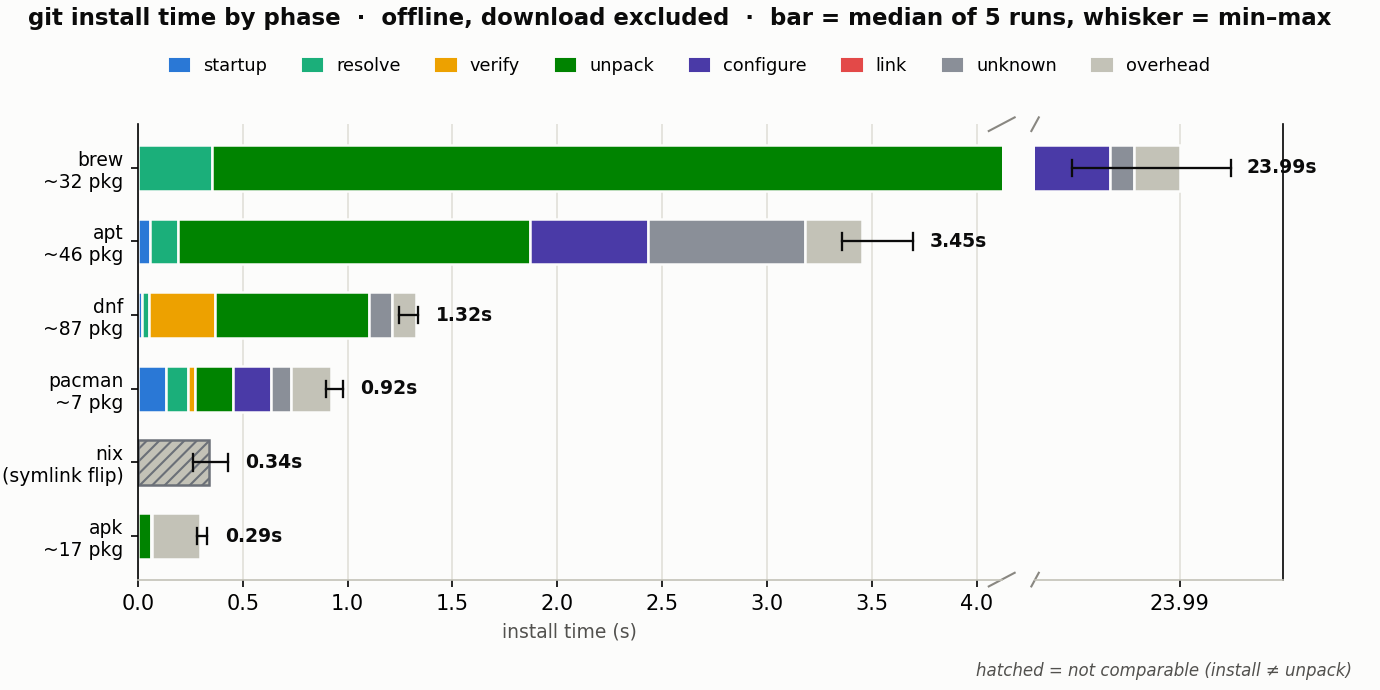
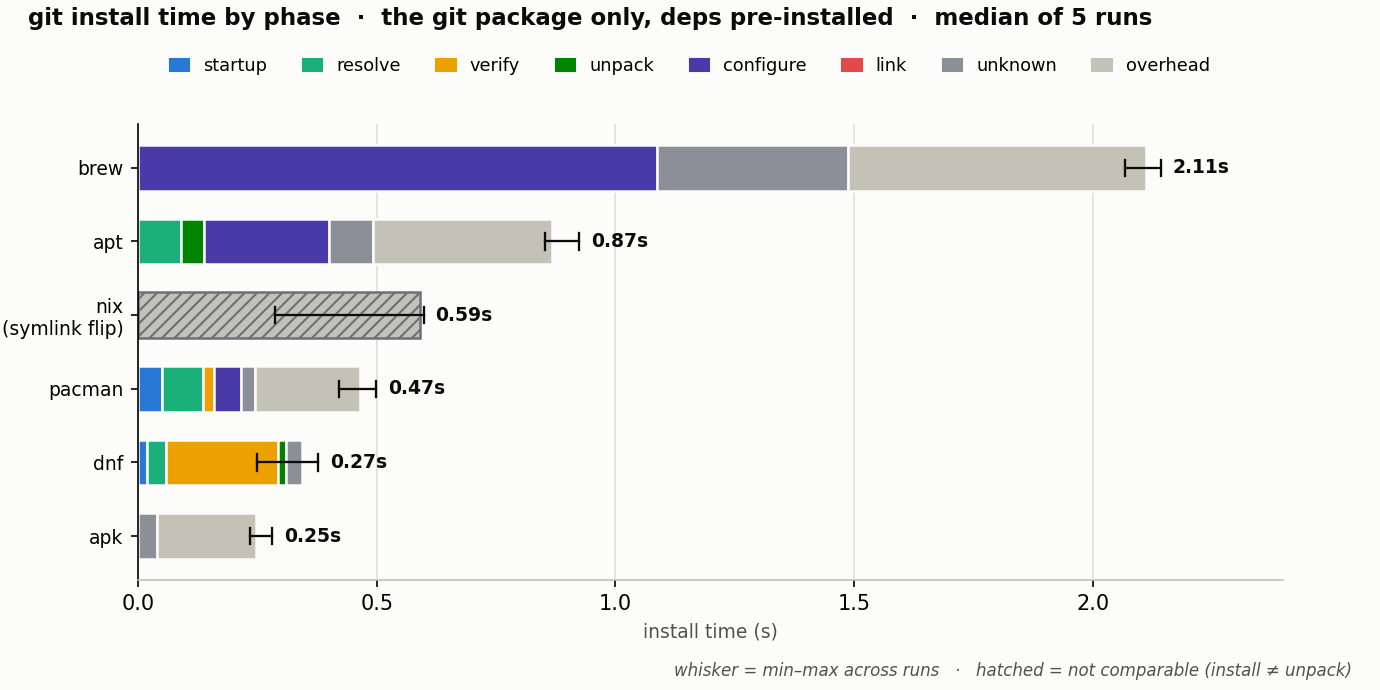
Measure the git package only: pre-install deps in setup (1 pkg per manager)
Each bench now installs git's dependencies during untimed setup and times
installing ONLY git itself, so every manager does the same unit of work (1
package) instead of a different-sized dependency tree.

- apt/pacman/apk: install git+deps in setup, remove just git (deps stay), time
  a fresh git install. dnf: Fedora splits git, so install git fully then
  reinstall git-core (the real payload). brew: pre-install `brew deps git`,
  time pouring just the git bottle.
- chart.py: drop per-bar pkg count (now uniformly 1); title says "git package
  only, deps pre-installed"; move whisker note to the footnote.
- README/synthesize: rewrite caveats for the git-only methodology (git-core on
  Fedora; drop the old workload-size and dnf --resolve caveats).

Result: fair per-package numbers — brew drops 24s->2.1s (its git bottle alone,
not 31 deps), apt 0.9s, pacman 0.5s, dnf/apk ~0.25s.

diff --git a/synthesize.js b/synthesize.js
@@ -30,7 +30,7 @@ const DL_INFO = {
   apt:    (d) => ({ size: cap(d, /Need to get ([\d.]+ ?[kMG]i?B)/i), deps: count(d, /\bGet:\d+/g) }),
   apk:    (d) => ({ size: null,                                       deps: count(d, /Downloading /gi) }),
   dnf:    (d, i) => ({ size: cap(i, /Total size of inbound packages is\s*([\d.]+ ?[kMG]i?B)/i) || cap(d, /Total (?:download )?size:?\s*([\d.]+ ?[kMG]i?B)/i),
-                      deps: count(i, /\]\s*Installing /gi) || count(d, /\(\d+\/\d+\):/g) }),
+                      deps: count(i, /\]\s*(?:Installing|Reinstalling) /gi) || count(d, /\(\d+\/\d+\):/g) }),
   pacman: (d) => ({ size: cap(d, /Total Download Size:\s*([\d.]+ ?[kMG]i?B)/i), deps: cap(d, /Packages? \((\d+)\)/) }),
   nix:    (d) => ({ size: cap(d, /([\d.]+ ?[kMG]i?B) download/i),     deps: cap(d, /(\d+) paths? will be fetched/i) }),
   brew:   (d, i) => ({ size: null,                                     deps: count(i, /🍺/g) }),
@@ -147,7 +147,7 @@ function body() {
     row('deps ~', (r) => r.deps ?? '—'),
     row('download size', (r) => r.size ?? '—'),
     '',
-    "_The `install: *` sub-phase split is from a single (last) rep, not the median run; `deps ~` is approximate and counted differently per manager (see README). **nix** caveat: its install is a profile symlink flip — unpack happens during the download phase (store realization), so its install time is **not** comparable to the others' unpack._",
+    "_Each manager installs only the `git` package with deps pre-installed, so `deps ~` = 1 (nix shows its store closure and is not counted). The `install: *` split is from a single (last) rep, not the median. **nix** caveat: its install is a profile symlink flip — unpack happens during the download phase (store realization), so its install time is **not** comparable to the others' unpack._",
     '', '### Top install sub-steps (by measured delta)', '',
     ...rows.map((r) => `- **${r.manager}** (${r.image}): ` + r.top.map((s) => `\`${s}\``).join(' · ')),
   ].join('\n');

diff --git a/chart.py b/chart.py
@@ -52,10 +52,9 @@ def bar_label(mgrs, totals, i):
 
 
 def ytick(m):
-    if m.get("manager") == "nix":
-        return "nix\n(symlink flip)"
-    d = m.get("deps")
-    return f"{m['manager']}\n~{d} pkg" if d and d != "0" else m["manager"]
+    # every manager now installs only the git package (deps pre-installed), so no
+    # per-bar package count; nix stays marked as the non-comparable symlink flip.
+    return "nix\n(symlink flip)" if m.get("manager") == "nix" else m["manager"]
 
 
 def main():
@@ -128,11 +127,12 @@ def main():
     fig.legend(handles, SEGMENTS, ncol=len(SEGMENTS), loc="upper center",
                bbox_to_anchor=(0.5, 0.94), frameon=False, fontsize=8.5, handlelength=1.1)
     reps = mgrs[0].get("reps", "?")
-    fig.suptitle(f"git install time by phase  ·  offline, download excluded  ·  bar = median of {reps} runs, whisker = min–max",
+    fig.suptitle(f"git install time by phase  ·  the git package only, deps pre-installed  ·  median of {reps} runs",
                  x=0.02, ha="left", y=0.99, fontsize=11, fontweight="bold", color="#0b0b0b")
+    note = "whisker = min–max across runs"
     if any(m.get("manager") == "nix" for m in mgrs):
-        fig.text(0.98, 0.015, "hatched = not comparable (install ≠ unpack)",
-                 ha="right", va="bottom", fontsize=8, style="italic", color="#52514e")
+        note += "   ·   hatched = not comparable (install ≠ unpack)"
+    fig.text(0.98, 0.015, note, ha="right", va="bottom", fontsize=8, style="italic", color="#52514e")
     fig.subplots_adjust(top=0.82, bottom=0.16, left=0.10, right=0.93)
     fig.savefig(os.path.join(ROOT, "chart.png"), facecolor="#fcfcfb")
     print("wrote chart.png")

diff --git a/README.md b/README.md
@@ -2,10 +2,15 @@
 
 How long does it take to **install `git`** with each major Linux package manager —
 and where does that time actually go? This benchmarks six managers (**apk, pacman,
-dnf, apt, nix, brew**) in throwaway Docker containers, splitting each run into two
+dnf, apt, nix, brew**) in throwaway Docker containers.
+
+To compare the **same unit of work**, each manager's **dependencies are pre-installed
+during untimed setup**, so the timed phases handle only the **`git` package itself** (1
+package) — not a different-sized dependency tree per manager. Each run splits into two
 timed phases:
 
-1. **Download** — fetch `git` + all dependencies into the local cache/store (online).
+1. **Download** — fetch the `git` package into the local cache (its deps are already
+   installed).
 2. **Install (offline)** — the warm-cache container is frozen to an image, then `git` is
    installed in a fresh **`--network none`** container, repeated **N times** (default 5).
    Timing is measured *inside* the container (so docker-exec startup is excluded) and
@@ -28,8 +33,8 @@ Auto-generated by `synthesize.js` on the last run — the chart and matrix below
 - **CPU:** 12th Gen Intel(R) Core(TM) i7-12700KF (20 logical cores)
 - **Memory:** 67.2 GB   **Arch:** x64   **Kernel:** 6.1.0-41-amd64
 - **OS:** Debian GNU/Linux 12 (bookworm)   **Docker:** 28.3.1
-- **Disk (/):** /dev/nvme0n1p2 ext4  937G  194G
-- **Generated:** 7/5/2026, 11:13:46 PM PDT
+- **Disk (/):** /dev/nvme0n1p2 ext4  937G  143G
+- **Generated:** 7/6/2026, 12:08:31 AM PDT
 
 ### Phase correlation matrix
 
@@ -37,30 +42,30 @@ _`install MEDIAN` is the median of 5 offline runs (`install min–max` shown); s
 
 | phase (s) | apk | pacman | dnf | apt | nix | brew |
 |---|---:|---:|---:|---:|---:|---:|
-| **download\*** | 1.65 | 3.82 | 7.38 | 3.81 | 7.11 | 86.83 |
-| install: startup | 0.00 | 0.13 | 0.02 | 0.06 | 0.00 | 0.00 |
-| install: resolve | 0.00 | 0.10 | 0.04 | 0.13 | 0.00 | 0.35 |
-| install: verify | 0.00 | 0.03 | 0.32 | 0.00 | 0.00 | 0.00 |
-| install: unpack | 0.06 | 0.18 | 0.73 | 1.68 | 0.00 | 20.04 |
-| install: configure | 0.00 | 0.18 | 0.00 | 0.57 | 0.00 | 2.95 |
+| **download\*** | 0.63 | 0.19 | 1.89 | 1.06 | 6.83 | 3.02 |
+| install: startup | 0.00 | 0.05 | 0.02 | 0.00 | 0.00 | 0.00 |
+| install: resolve | 0.00 | 0.09 | 0.04 | 0.09 | 0.00 | 0.00 |
+| install: verify | 0.00 | 0.02 | 0.23 | 0.00 | 0.00 | 0.00 |
+| install: unpack | 0.00 | 0.00 | 0.02 | 0.05 | 0.00 | 0.00 |
+| install: configure | 0.00 | 0.06 | 0.00 | 0.26 | 0.00 | 1.09 |
 | install: link | 0.00 | 0.00 | 0.00 | 0.00 | 0.00 | 0.00 |
-| install: unknown | 0.00 | 0.09 | 0.11 | 0.75 | 0.00 | 0.22 |
-| **install MEDIAN** | 0.29 | 0.92 | 1.32 | 3.45 | 0.34 | 23.99 |
-| install min–max | 0.28–0.33 | 0.90–0.98 | 1.25–1.34 | 3.36–3.70 | 0.26–0.43 | 22.98–24.46 |
+| install: unknown | 0.04 | 0.03 | 0.03 | 0.09 | 0.00 | 0.40 |
+| **install MEDIAN** | 0.25 | 0.47 | 0.27 | 0.87 | 0.59 | 2.11 |
+| install min–max | 0.23–0.28 | 0.42–0.50 | 0.25–0.38 | 0.85–0.92 | 0.29–0.60 | 2.07–2.14 |
 | git version | 2.54.0 | 2.55.0 | 2.55.0 | 2.39.5 | 2.54.0 | 2.51.2 |
-| deps ~ | 17 | 7 | 87 | 46 | 84 | 32 |
-| download size | — | 29.06 MiB | 37 MiB | 25.6 MB | 127.7 MiB | — |
+| deps ~ | 1 | 1 | 1 | 1 | 84 | 1 |
+| download size | — | 0.00 MiB | 5 MiB | 7264 kB | 127.7 MiB | — |
 
-_The `install: *` sub-phase split is from a single (last) rep, not the median run; `deps ~` is approximate and counted differently per manager (see README). **nix** caveat: its install is a profile symlink flip — unpack happens during the download phase (store realization), so its install time is **not** comparable to the others' unpack._
+_Each manager installs only the `git` package with deps pre-installed, so `deps ~` = 1 (nix shows its store closure and is not counted). The `install: *` split is from a single (last) rep, not the median. **nix** caveat: its install is a profile symlink flip — unpack happens during the download phase (store realization), so its install time is **not** comparable to the others' unpack._
 
 ### Top install sub-steps (by measured delta)
 
-- **apk** (alpine:latest): `0.036s (12/12) Installing git-init-template (2.54.0-r` · `0.007s ( 4/12) Installing libidn2 (2.3.8-r0)` · `0.004s ( 2/12) Installing c-ares (1.34.6-r0)`
-- **pacman** (archlinux:latest): `0.185s :: Running post-transaction hooks...` · `0.164s installing perl-error...` · `0.101s loading package files...`
-- **dnf** (fedora:latest): `0.315s [ 1/99] Verify package files            100% |` · `0.099s [99/99] Removing libsmartcols-0:2.41.4- 100% |` · `0.086s [14/99] Installing mpdecimal-0:4.0.1-3. 100% |`
-- **apt** (debian:12-slim): `0.312s 142 added, 0 removed; done.` · `0.214s 0 added, 0 removed; done.` · `0.207s Selecting previously unselected package perl.`
-- **nix** (nixos/nix): `0.000s warning: 'install' is a deprecated alias for '` · `0.000s warning: you don't have Internet access; disab`
-- **brew** (homebrew/brew): `5.323s 🍺  /home/linuxbrew/.linuxbrew/Cellar/util-lin` · `3.659s 🍺  /home/linuxbrew/.linuxbrew/Cellar/openssl@` · `1.652s 🍺  /home/linuxbrew/.linuxbrew/Cellar/krb5/1.2`
+- **apk** (alpine:latest): `0.037s Executing busybox-1.37.0-r31.trigger` · `0.003s OK: 20.4 MiB in 28 packages` · `0.000s (1/1) Installing git (2.54.0-r0)`
+- **pacman** (archlinux:latest): `0.083s Optional dependencies for git` · `0.055s :: Running post-transaction hooks...` · `0.032s (2/3) Reloading system manager configuration..`
+- **dnf** (fedora:latest): `0.235s [1/4] Verify package files              100% |` · `0.041s [2/4] Prepare transaction               100% |` · `0.030s [4/4] Removing git-core-0:2.55.0-1.fc44 100% |`
+- **apt** (debian:12-slim): `0.197s Setting up git (1:2.39.5-0+deb12u3) ...` · `0.090s Building dependency tree...` · `0.085s Suggested packages:`
+- **nix** (nixos/nix): `0.001s warning: you don't have Internet access; disab` · `0.000s warning: 'install' is a deprecated alias for '`
+- **brew** (homebrew/brew): `1.088s ==> Caveats` · `0.400s ==> Fetching git` · `0.000s ==> Fetching downloads for: git`
 <!-- RESULTS:END -->
 
 ## Run it
@@ -83,7 +88,8 @@ Output lands in `results/` (git-ignored): per-manager `*-download.log`, `*-insta
 
 - **`run.js`** (stage 1) — for each manager, calls `benches/<mgr>.sh`, which uses the
   shared harness `benches/_lib.sh` to: start a container, do untimed **setup** (pull repo
-  metadata, clean state), time the **download**, then `docker commit` the warm-cache
+  metadata and **pre-install git's dependencies**, so only git itself is left to install),
+  time the **download** of the git package, then `docker commit` the warm-cache
   container to an image and run the **offline install** `REPS` times, each in a fresh
   `--network none` container. Timing is host wall-clock minus a measured `docker exec`
   baseline; every line is piped through `lib/ts.js`; a failed install (or missing
@@ -122,23 +128,20 @@ than skipping it — only apk explicitly skips (`--allow-untrusted`).
 
 ## Caveats
 
-- **Different-sized workloads.** `git` version, dependency count, and base-image baseline
-  differ per manager (deps range ~7 for pacman to ~87 for dnf/nix, since Arch/Alpine ship
-  more in their base). This is largely *how many packages get unpacked*, not manager
-  speed — don't read the totals as a pure efficiency ranking. The `deps` row shows the
-  spread.
-- **nix's install is not comparable to the others'.** For apt/dnf/pacman/apk/brew the
+- **Same unit of work — the git package only.** Every manager's dependencies are
+  pre-installed in untimed setup, so the timed install handles exactly **1 package (git)**,
+  not a different-sized dependency tree. What still differs is git itself: version
+  (2.39–2.55) and packaging — on Fedora `git` is a thin metapackage, so we install/measure
+  **`git-core`** (the real binary payload); other distros ship git's binary in the `git`
+  package directly.
+- **nix's install is not comparable to the others'.** For apt/dnf/pacman/apk/brew the git
   unpack happens during the timed install; for nix it happens during *download* (store
   realization), so nix's install is just a profile **symlink flip**. Its low install
-  number reflects a different operation, not a faster one.
-- **Install-time work differs per manager.** apk/dnf install from an explicit local
-  package set (near-zero resolve) while apt/pacman resolve `git` by name at install.
-  **apk** uses `--allow-untrusted`, so it does *no* signature/integrity verification (its
-  `verify` = 0 is a skipped step, not speed). **dnf**'s `download --resolve` pulls the
-  newest metadata, so its offline install also **upgrades ~5 base packages** (util-linux
-  libs) on top of installing git — ~0.15–0.2 s of extra work no other manager does.
-- **`deps` is approximate.** It is counted from a different log line per manager (installed
-  packages, downloaded files, or store paths), so the counts are directional, not exact.
+  number reflects a different operation, not a faster one — the chart hatches it.
+- **Install mechanics still differ slightly.** apt/pacman install git fresh (unpack +
+  configure), dnf reinstalls `git-core`, brew pours git's bottle — all "lay down git's
+  files," but not byte-identical. **apk** uses `--allow-untrusted`, so it does *no*
+  signature/integrity verification (its `verify` = 0 is a skipped step, not speed).
 - **Reproducibility.** Install is the median of N runs (min–max shown) measured in-container
   and run under `--network none`, but it is still CPU/IO-sensitive: on a contended host the
   numbers inflate. Run on an otherwise-idle machine; treat sub-second gaps between the